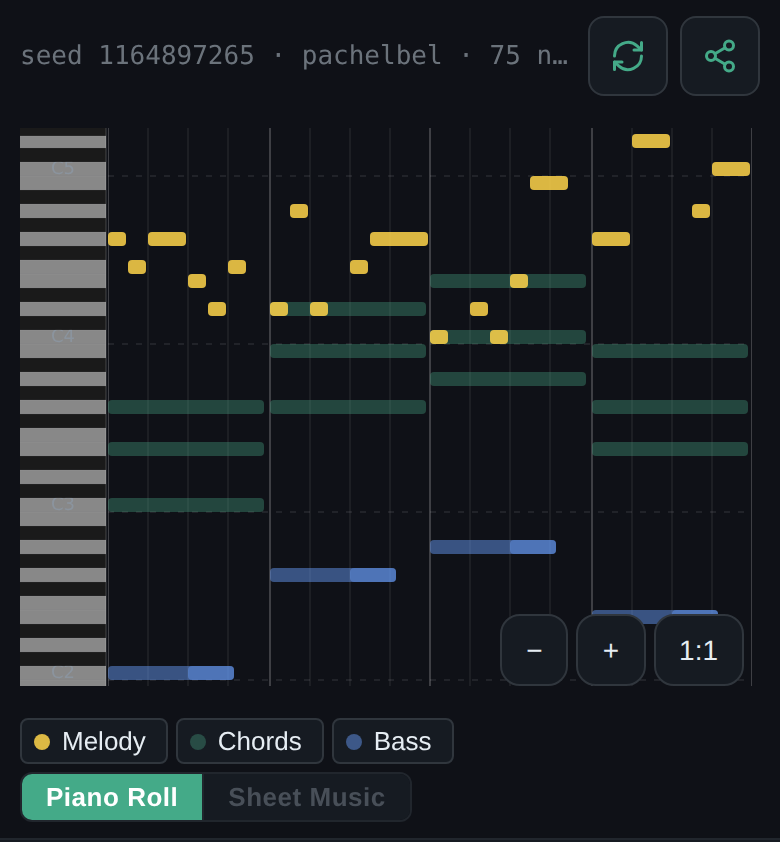
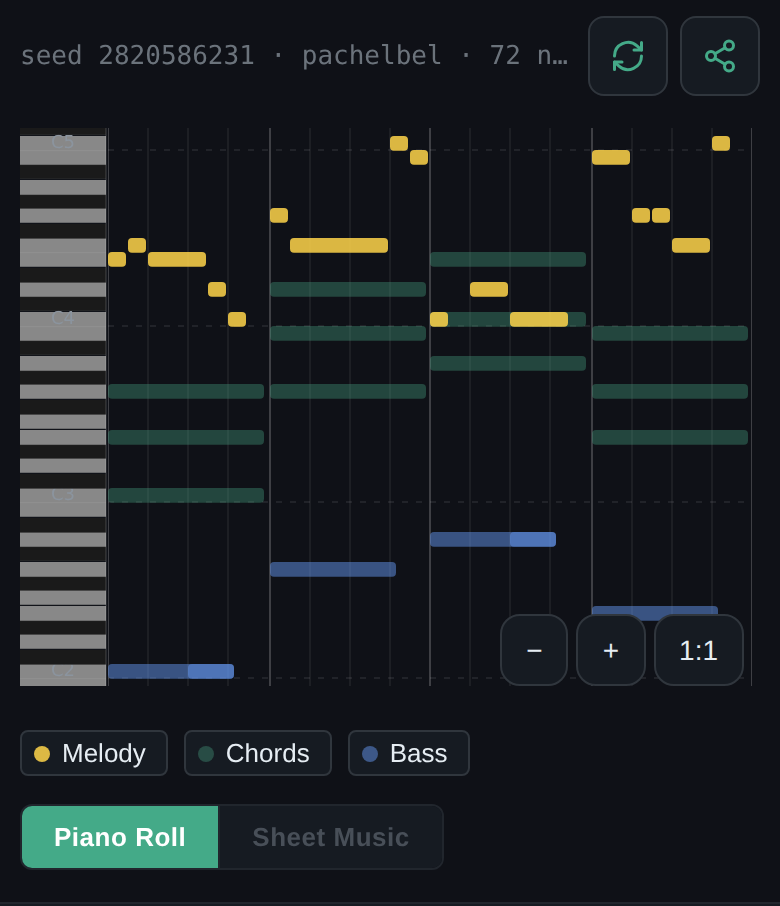
Mobile: more vertical breathing room around score toggles

diff --git a/src/styles.css b/src/styles.css
@@ -2273,11 +2273,18 @@ input[type="text"]:focus {
   }
 
   .score-bar-actions {
-    gap: 4px;
+    gap: 14px;
+    margin-top: 14px;
+    padding-bottom: 8px;
   }
 
   .score-track-toggles {
-    gap: 4px;
+    gap: 8px;
+    flex-wrap: wrap;
+  }
+
+  .score-view-btn {
+    padding: 8px 16px;
   }
 
   .track-toggle {
